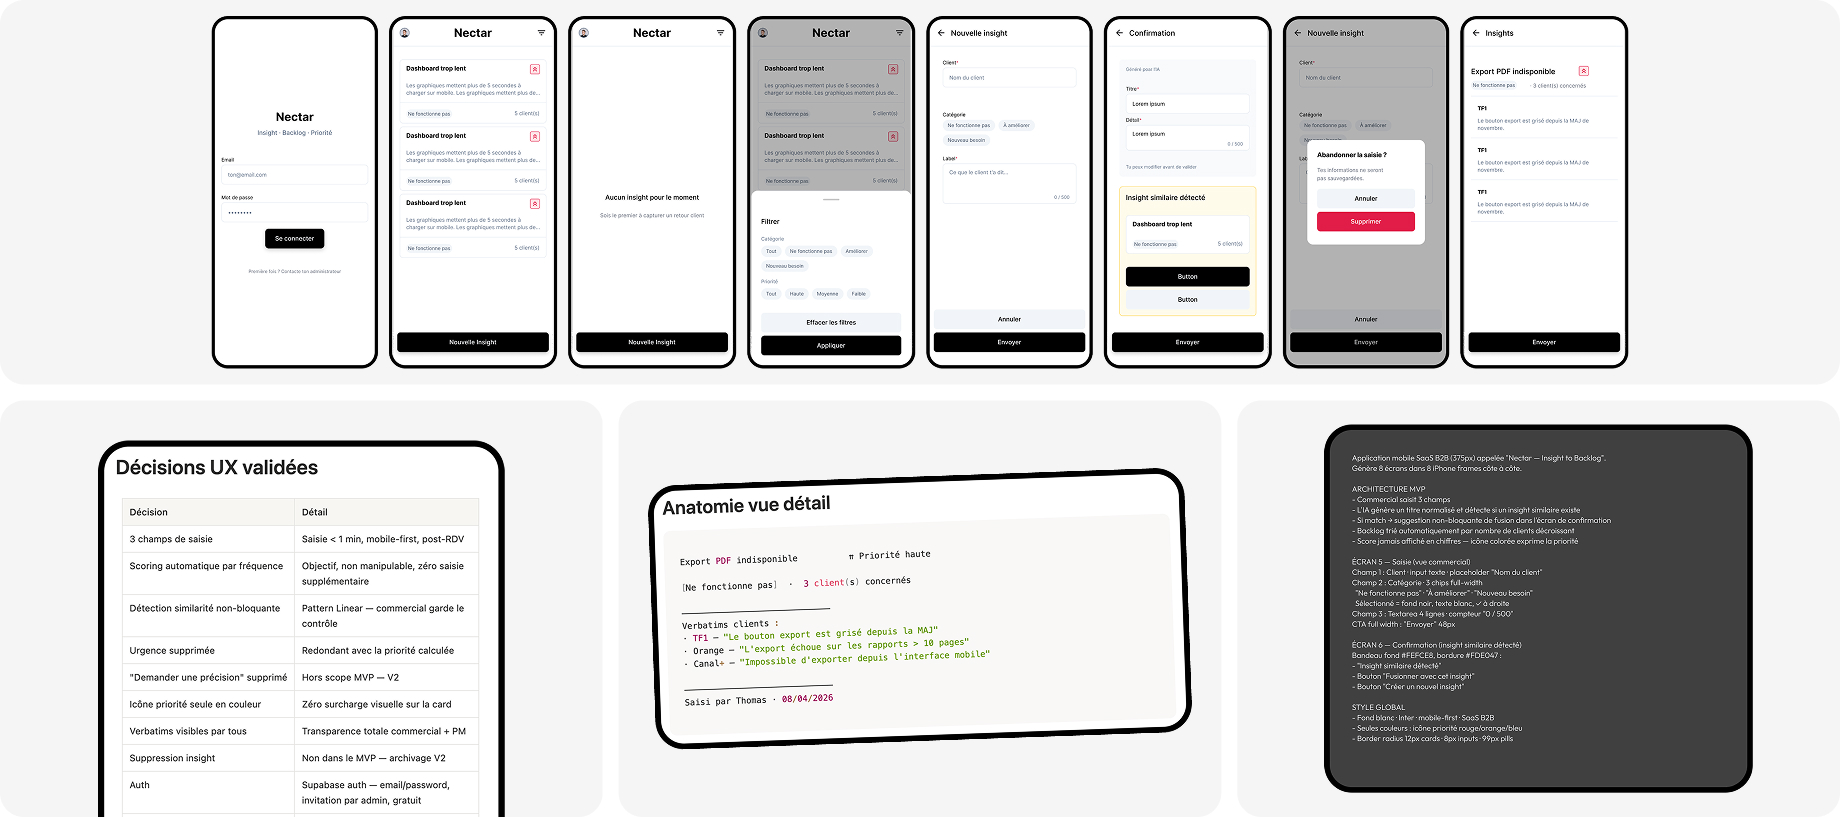
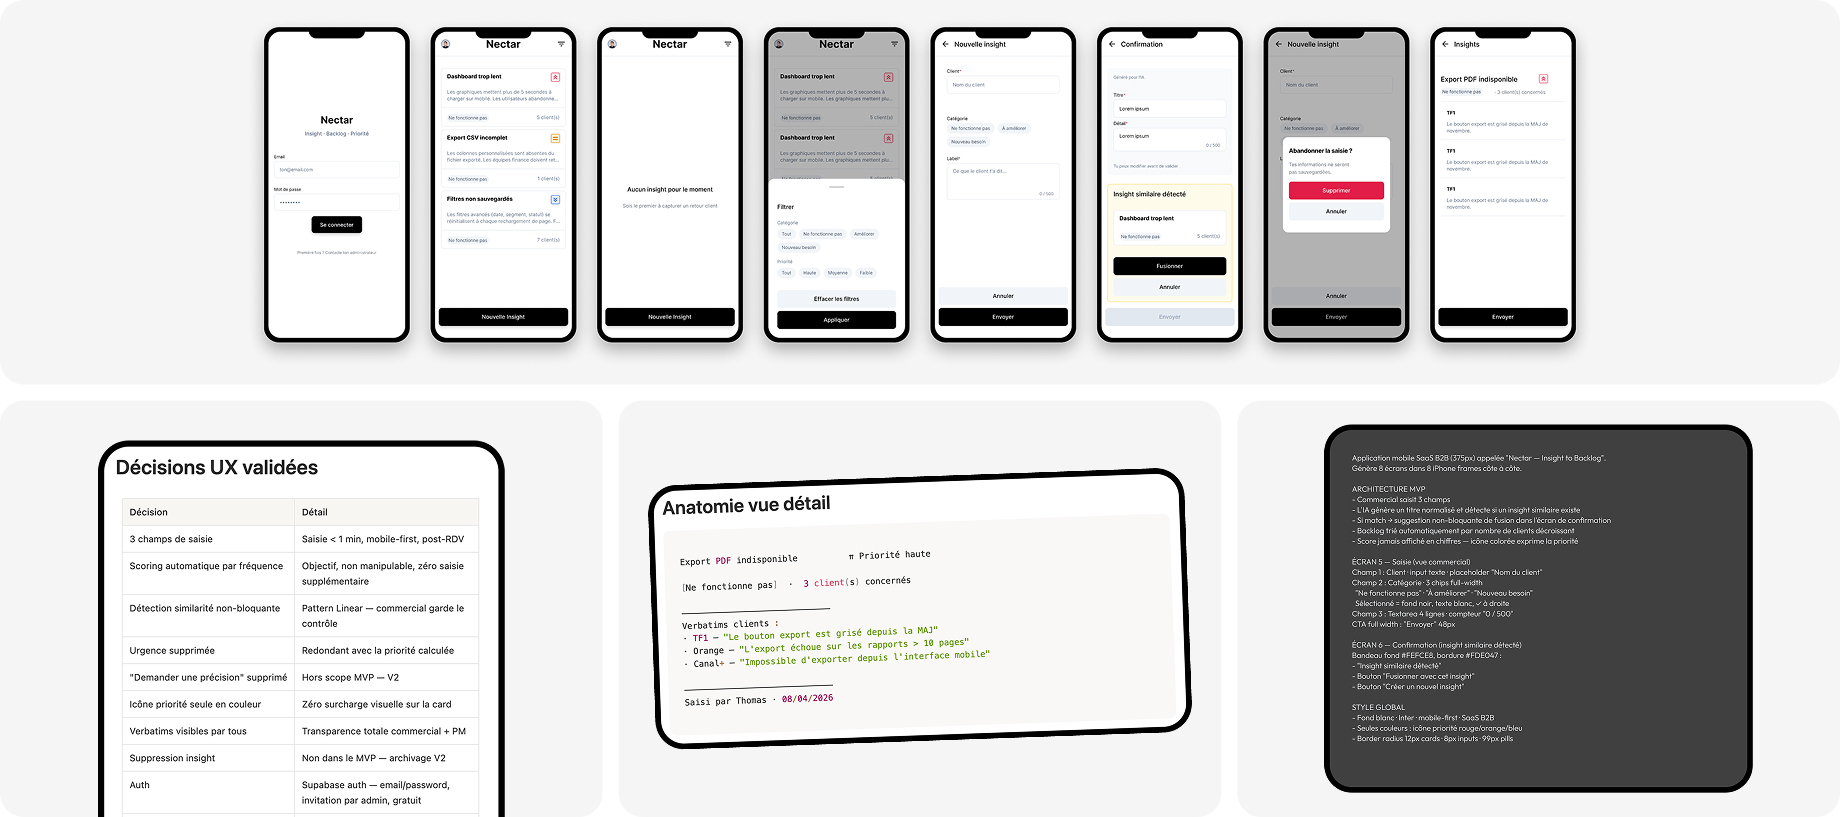
update pepyte forms section — side nav, pills, suggestions, 2 illustrations

Changed region(s): [[0.1239, 0.0, 0.8984, 0.459]]

diff --git a/case-pepyte.html b/case-pepyte.html
@@ -323,7 +323,7 @@ nav.menu-open .mob-footer{display:flex}
     <p class="sec-label">01 — Audit</p>
     <div class="sec-body">
       <h2>Cartographie de l'existant</h2>
-      <p>J'ai commencé par inventorier l'ensemble des champs existants : <strong>62 champs</strong> répartis sur 3 formulaires (Candidat, Offre, Entreprise). Cet audit a mis en évidence les lacunes structurelles et les doublons.</p>
+      <p>J'ai commencé par inventorier l'ensemble des champs existants : <strong>62 champs</strong> répartis sur 3 formulaires (Candidat, Offre, Entreprise).</p>
       <p>En parallèle, j'ai mené un benchmark concurrentiel (LinkedIn, Welcome to the Jungle, ATS du marché) documenté dans Notion. Il a permis d'identifier <strong>11 nouveaux champs potentiels</strong>, qui ont servi de base au questionnaire de priorisation.</p>
       <div class="illustrations-grid-2-1" style="margin-top:24px">
         <figure class="illustration-item">
@@ -346,7 +346,7 @@ nav.menu-open .mob-footer{display:flex}
     <p class="sec-label">02 — Entretiens</p>
     <div class="sec-body">
       <h2>10 entretiens recruteurs</h2>
-      <p>J'ai mené 10 entretiens semi-directifs avec des recruteurs, incluant une phase d'observation directe : chaque participant présentait son outil en conditions réelles. L'objectif était de comprendre les informations réellement collectées, les arbitrages quotidiens et les limites des outils existants.</p>
+      <p>J'ai mené 10 entretiens avec des recruteurs, incluant une phase d'observation directe : chaque participant présentait son outil en conditions réelles. L'objectif était de comprendre les informations réellement collectées, les arbitrages quotidiens et les limites des outils existants.</p>
       <p>Ces entretiens ont permis d'identifier <strong>18 nouveaux champs pertinents</strong>, dont 8 absents du benchmark. Ils ont également fait émerger des opportunités concrètes : matching automatique, synthèse de profil par IA et complétion audio des fiches.</p>
       <div class="illustrations-grid-2-1" style="margin-top:24px">
         <figure class="illustration-item">
@@ -378,13 +378,27 @@ nav.menu-open .mob-footer{display:flex}
     <p class="sec-label">04 — Formulaires</p>
     <div class="sec-body">
       <h2>De la recherche aux interfaces</h2>
-      <p>J'ai intégré les <strong>10 champs prioritaires</strong> dans les trois formulaires sans alourdir l'expérience de saisie. Les entretiens avaient mis en évidence une friction récurrente avec les dropdowns — trop lents, trop rigides. Je les ai remplacés par des <strong>pills sélectionnables</strong> avec suggestions contextuelles.</p>
+      <p>J'ai intégré les <strong>10 champs prioritaires</strong> dans les trois formulaires en travaillant sur trois axes principaux.</p>
+      <p><strong>Navigation latérale</strong> — ajout d'une side navigation entre les rubriques du formulaire pour structurer la progression et réduire la charge cognitive.</p>
+      <p><strong>Remplacement par des pills</strong> — pour les champs avec peu de propositions, les dropdowns ont été remplacés par des pills sélectionnables directement visibles, plus rapides à compléter.</p>
+      <p><strong>Suggestions contextuelles</strong> — pour les dropdowns conservés, ajout de tags de suggestion en dessous. Exemple : le champ "Langue" affiche en raccourci les 3 langues les plus renseignées — Anglais, Espagnol, Allemand.</p>
       <p>J'ai également conçu un <strong>menu de personnalisation</strong> permettant à chaque recruteur d'activer ou masquer les champs selon ses processus.</p>
       <ul class="result-list">
         <li>10 nouveaux champs intégrés, validés par les données</li>
-        <li>Dropdowns remplacés par des pills — saisie plus rapide</li>
+        <li>Side navigation ajoutée pour structurer les rubriques du formulaire</li>
+        <li>Pills pour les champs à choix courts, suggestions contextuelles pour les dropdowns</li>
         <li>Menu de personnalisation par profil recruteur</li>
       </ul>
+      <div class="illustrations-grid-2" style="margin-top:24px">
+        <figure class="illustration-item">
+          <div class="illustration-item-inner"><img src="images/pepyte-formulaire-1.jpg" alt="Nouveau formulaire Pepyte"></div>
+          <figcaption class="illustration-caption">Nouveau formulaire candidat</figcaption>
+        </figure>
+        <figure class="illustration-item">
+          <div class="illustration-item-inner"><img src="images/pepyte-formulaire-2.jpg" alt="Menu de personnalisation Pepyte"></div>
+          <figcaption class="illustration-caption">Menu de personnalisation</figcaption>
+        </figure>
+      </div>
     </div>
   </div>
 

diff --git a/case-nectar.html b/case-nectar.html
@@ -534,7 +534,7 @@ nav.menu-open .mob-footer{display:flex}
       <div class="illustrations-grid" style="margin-top:24px;grid-template-columns:1fr">
         <figure class="illustration-item">
           <div class="illustration-item-inner"><img src="images/nectar-dev-1.jpg" alt="Produit Nectar déployé" onerror="this.closest('.illustration-item').style.display='none'"></div>
-          <figcaption class="illustration-caption">Produit déployé sur Vercel</figcaption>
+          <figcaption class="illustration-caption">Déployé sur Vercel depuis VS Code avec Claude Code</figcaption>
         </figure>
       </div>
     </div>